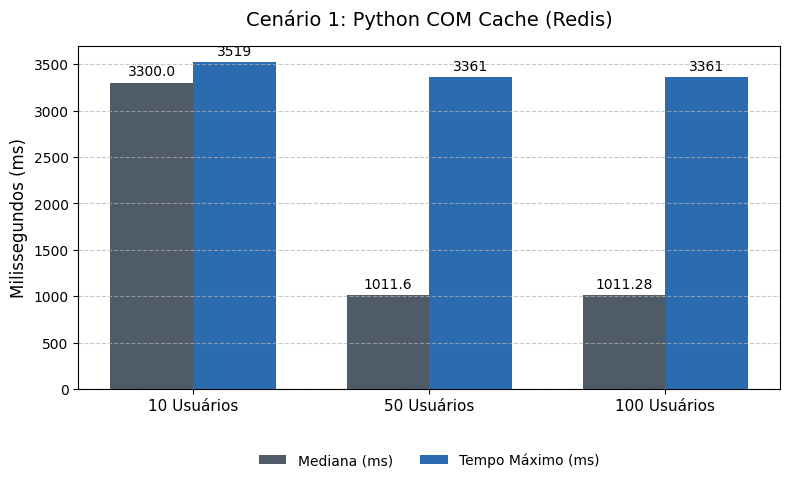
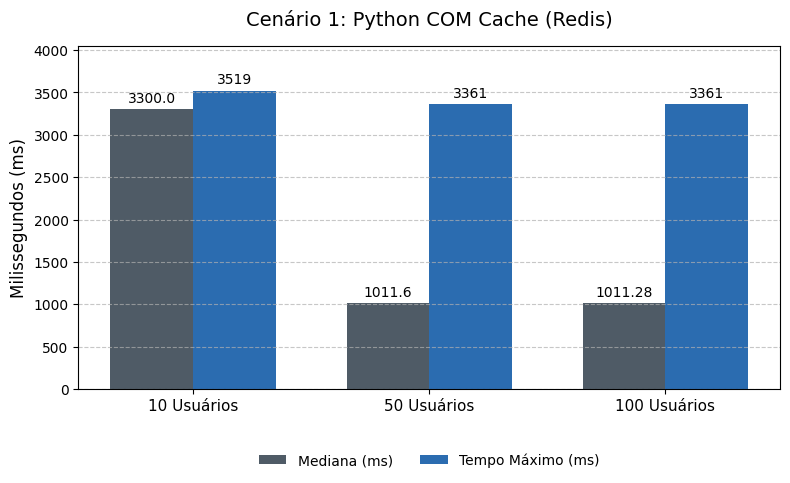
atualizando graficos

diff --git a/gerar_graficos_cenarios.py b/gerar_graficos_cenarios.py
@@ -36,6 +36,10 @@ for i, (titulo, dados) in enumerate(cenarios.items(), 1):
     ax.set_xticks(x)
     ax.set_xticklabels(labels, fontsize=11)
     
+    # NOVIDADE: Aumenta o limite superior do eixo Y em 15% para os números não cortarem
+    max_y = max(max(dados["mediana"]), max(dados["maximo"]))
+    ax.set_ylim(0, max_y * 1.15)
+    
     # Legenda movida para baixo do gráfico
     ax.legend(loc='upper center', bbox_to_anchor=(0.5, -0.15), ncol=2, frameon=False)
     ax.grid(axis='y', linestyle='--', alpha=0.7)
@@ -52,4 +56,4 @@ for i, (titulo, dados) in enumerate(cenarios.items(), 1):
     plt.savefig(f'imagens/grafico_cenario{i}.png', bbox_inches='tight')
     plt.close()
 
-print("Gráficos gerados com sucesso na pasta 'imagens/'!")
+print("Gráficos gerados com sucesso na pasta 'imagens/' com limite de margem corrigido!")
